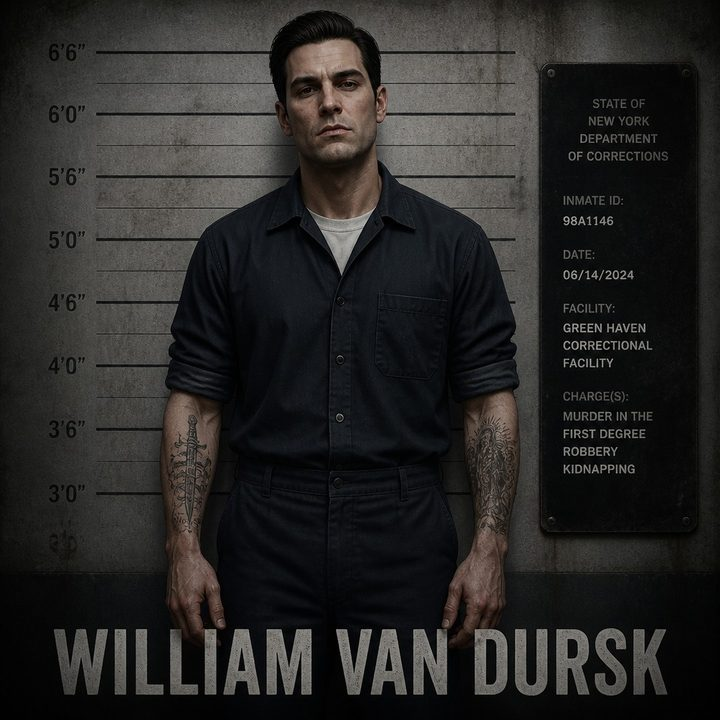
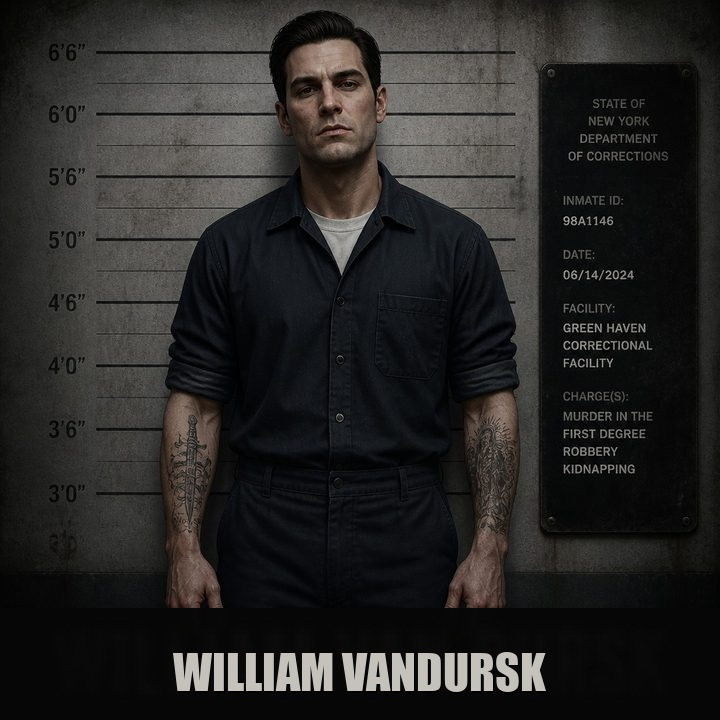
Lock William VanDursk as one last name on the blog wheel.

Changed region(s): [[0.0611, 0.825, 0.9472, 0.9778]]

diff --git a/lib/chapterOneWheel.js b/lib/chapterOneWheel.js
@@ -40,7 +40,7 @@ export const CHAPTER_ONE_WHEEL = [
   {"id": "27-denise-reddy", "name": "Denise Reddy", "src": "/characters/wheel/27-denise-reddy.jpg"},
   {"id": "28-douglas-coburg", "name": "Douglas Coburg", "src": "/characters/wheel/28-douglas-coburg.jpg"},
   {"id": "29-carmichael-gatson", "name": "Carmichael Gatson", "src": "/characters/wheel/29-carmichael-gatson.jpg"},
-  {"id": "30-william-van-dursk", "name": "William Van Dursk", "src": "/characters/wheel/30-william-van-dursk.jpg"},
+  {"id": "30-william-van-dursk", "name": "William VanDursk", "src": "/characters/wheel/30-william-van-dursk.jpg?v=vandursk"},
   {"id": "31-emily-novach", "name": "Emily Novach", "src": "/characters/wheel/31-emily-novach.jpg"},
   {"id": "32-tabitha-avery", "name": "Tabitha Avery", "src": "/characters/wheel/32-tabitha-avery.jpg"},
   {"id": "33-patsy-ulson", "name": "Patsy Ulson", "src": "/characters/wheel/33-patsy-ulson.jpg"},
